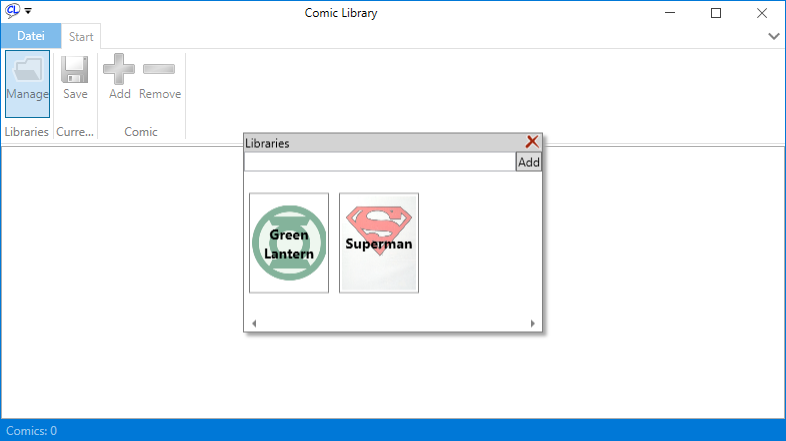
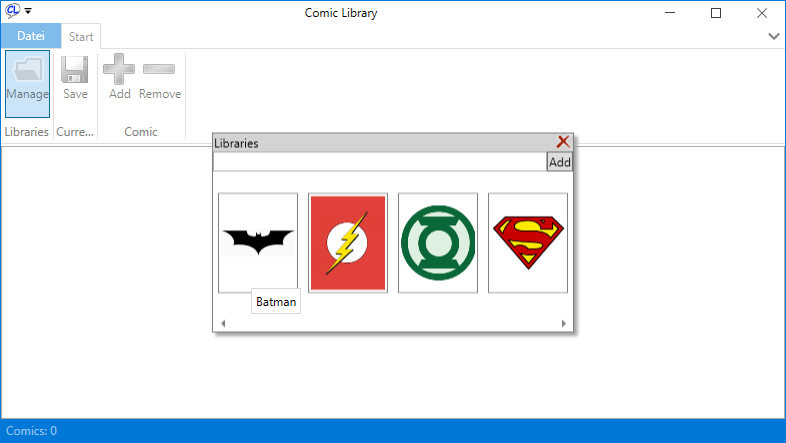
Added comic counter in overview.

diff --git a/ComicLibrary/View/MainWindow.xaml b/ComicLibrary/View/MainWindow.xaml
@@ -8,6 +8,7 @@
                      xmlns:fluent="urn:fluent-ribbon"
                      xmlns:local="clr-namespace:ComicLibrary"
                      xmlns:localBehaviors="clr-namespace:ComicLibrary.View.Behaviors"
+                     xmlns:localConverters="clr-namespace:ComicLibrary.View.Converters"
                      xmlns:mc="http://schemas.openxmlformats.org/markup-compatibility/2006"
                      xmlns:vm="clr-namespace:ComicLibrary.ViewModel"
                      Title="Comic Library"
@@ -19,6 +20,7 @@
     <ResourceDictionary>
       <converters:BooleanToVisibilityConverter x:Key="VisibilityConverter" />
       <converters:NegationConverter x:Key="NegationConverter" />
+      <localConverters:ConditionConverter x:Key="ConditionConverter" />
 
       <DataTemplate DataType="{x:Type vm:LibraryViewModel}">
         <Border x:Name="Border"
@@ -28,7 +30,8 @@
                 Background="White"
                 BorderBrush="Gray"
                 BorderThickness="1"
-                Cursor="Hand">
+                Cursor="Hand"
+                ToolTip="{Binding Name}">
           <Border.Resources>
             <controls:BindingProxy x:Key="Proxy" Data="{Binding DataContext, RelativeSource={RelativeSource AncestorType={x:Type local:MainWindow}}}" />
           </Border.Resources>
@@ -57,9 +60,8 @@
           </behaviors:Interaction.Triggers>
           <Grid>
             <Image Margin="2"
-                   Opacity="0.5"
                    Source="{Binding ComicImage.Image}"
-                   Stretch="UniformToFill" />
+                   Stretch="Uniform" />
             <TextBlock Margin="2"
                        HorizontalAlignment="Center"
                        VerticalAlignment="Center"
@@ -68,7 +70,19 @@
                        Text="{Binding Name}"
                        TextAlignment="Center"
                        TextTrimming="CharacterEllipsis"
-                       TextWrapping="Wrap" />
+                       TextWrapping="Wrap">
+              <TextBlock.Style>
+                <Style TargetType="TextBlock">
+                  <Setter Property="Visibility" Value="Collapsed" />
+                  <Style.Triggers>
+                    <DataTrigger Binding="{Binding ComicImage}" Value="{x:Null}">
+                      <Setter Property="Visibility" Value="Visible" />
+                    </DataTrigger>
+                  </Style.Triggers>
+                </Style>
+              </TextBlock.Style>
+            </TextBlock>
+            <TextBlock Text="{Binding ComicCount}" VerticalAlignment="Bottom" HorizontalAlignment="Right" Margin="2,0" FontWeight="Bold"/>
           </Grid>
         </Border>
       </DataTemplate>
@@ -153,9 +167,24 @@
                   </Style>
                 </DataGridTextColumn.ElementStyle>
               </DataGridTextColumn>
-              <DataGridComboBoxColumn Header="Condition"
-                                      ItemsSource="{Binding Data.Conditions, Source={StaticResource Proxy}}"
-                                      SelectedItemBinding="{Binding Condition}" />
+              <DataGridTemplateColumn>
+                <DataGridTemplateColumn.CellTemplate>
+                  <DataTemplate>
+                    <TextBlock Margin="2,0" Text="{Binding Condition, Converter={StaticResource ConditionConverter}}" />
+                  </DataTemplate>
+                </DataGridTemplateColumn.CellTemplate>
+                <DataGridTemplateColumn.CellEditingTemplate>
+                  <DataTemplate>
+                    <ComboBox ItemsSource="{Binding Data.Conditions, Source={StaticResource Proxy}}" SelectedItem="{Binding Condition}">
+                      <ComboBox.ItemTemplate>
+                        <DataTemplate>
+                          <TextBlock Margin="2,0" Text="{Binding Converter={StaticResource ConditionConverter}}" />
+                        </DataTemplate>
+                      </ComboBox.ItemTemplate>
+                    </ComboBox>
+                  </DataTemplate>
+                </DataGridTemplateColumn.CellEditingTemplate>
+              </DataGridTemplateColumn>
               <DataGridComboBoxColumn DisplayMemberPath="Name"
                                       Header="Publisher"
                                       ItemsSource="{Binding Data.Publishers, Source={StaticResource Proxy}}"

diff --git a/ComicLibrary/View/EditComicDialog.xaml b/ComicLibrary/View/EditComicDialog.xaml
@@ -5,13 +5,15 @@
         xmlns:d="http://schemas.microsoft.com/expression/blend/2008"
         xmlns:local="clr-namespace:ComicLibrary.View"
         xmlns:mc="http://schemas.openxmlformats.org/markup-compatibility/2006"
-        xmlns:viewmodel="clr-namespace:ComicLibrary.ViewModel"
+        xmlns:viewmodel="clr-namespace:ComicLibrary.ViewModel" xmlns:localConverters="clr-namespace:ComicLibrary.View.Converters"
         Title="Comic"
         Width="600"
         Height="450"
         d:DataContext="{d:DesignInstance Type=viewmodel:EditComicViewModel}"
         mc:Ignorable="d">
   <Window.Resources>
+    <localConverters:ConditionConverter x:Key="ConditionConverter" />
+
     <Style TargetType="{x:Type TextBlock}">
       <Setter Property="VerticalAlignment" Value="Center" />
       <Setter Property="Margin" Value="2" />
@@ -89,7 +91,13 @@
     <ComboBox Grid.Row="5"
               Grid.Column="1"
               ItemsSource="{Binding Conditions}"
-              SelectedItem="{Binding Condition}" />
+              SelectedItem="{Binding Condition}">
+      <ComboBox.ItemTemplate>
+        <DataTemplate>
+          <TextBlock Margin="2,0" Text="{Binding Converter={StaticResource ConditionConverter}}" />
+        </DataTemplate>
+      </ComboBox.ItemTemplate>
+    </ComboBox>
 
     <TextBlock Grid.Row="6" Text="Publisher" />
     <ComboBox Grid.Row="6"

diff --git a/ComicLibrary/ViewModel/ActiveLibraryViewModel.cs b/ComicLibrary/ViewModel/ActiveLibraryViewModel.cs
@@ -12,6 +12,7 @@ namespace ComicLibrary.ViewModel
   {
     #region Fields
 
+    private readonly LibraryViewModel _libraryTemplate;
     private ComicViewModel _selectedComic;
     private string _searchText;
     private ActionCommand _addComicCommand;
@@ -25,6 +26,7 @@ namespace ComicLibrary.ViewModel
 
     public ActiveLibraryViewModel(ActiveLibrary library, LibraryViewModel libraryTemplate)
     {
+      _libraryTemplate = libraryTemplate;
       Publishers =
       [
         new EmptyOptionItemViewModel<Publisher>(),
@@ -37,15 +39,14 @@ namespace ComicLibrary.ViewModel
       ];
       Conditions = Enum.GetValues(typeof(Condition)).Cast<Condition>().ToList();
       Comics = new ObservableCollection<ComicViewModel>(library.Comics.Select(x => new ComicViewModel(x, Name, Publishers, Countries)));
-      Path = libraryTemplate.GetFilePath();
-      Name = libraryTemplate.Name;
+      libraryTemplate.ComicCount = Comics.Count;
     }
 
     #endregion
 
     #region Properties
 
-    public string Name { get; }
+    public string Name => _libraryTemplate.Name;
 
     public List<IOptionItemViewModel<Publisher>> Publishers { get; }
 
@@ -69,7 +70,7 @@ namespace ComicLibrary.ViewModel
       }
     }
 
-    public string Path { get; }
+    public string Path => _libraryTemplate.GetFilePath();
 
     public string SearchText
     {
@@ -101,6 +102,7 @@ namespace ComicLibrary.ViewModel
       var comicVM = new ComicViewModel(comic, Name, Publishers, Countries);
       Comics.Add(comicVM);
       SelectedComic = comicVM;
+      _libraryTemplate.ComicCount = Comics.Count;
     }
 
     #endregion
@@ -113,6 +115,7 @@ namespace ComicLibrary.ViewModel
     {
       Comics.Remove(SelectedComic);
       SelectedComic = null;
+      _libraryTemplate.ComicCount = Comics.Count;
     }
 
     private bool CanRemoveComic()

diff --git a/ComicLibrary/Model/Entities/Library.cs b/ComicLibrary/Model/Entities/Library.cs
@@ -3,9 +3,11 @@ using ComicLibrary.Model.Config;
 
 namespace ComicLibrary.Model.Entities
 {
-  public class Library : IComparable, IComparable<Library>
+  public class Library
   {
     public string Name { get; set; }
+
+    public int ComicCount { get; set; }
 
     public string FileName { get; set; }
 
@@ -13,26 +15,30 @@ namespace ComicLibrary.Model.Entities
 
     internal static string GenerateFileName(string libraryName)
     {
-      string filePath = Path.Combine(Settings.Instance.LibrariesPath, Path.ChangeExtension(libraryName, "xml"));
+      string fileName = GetValidFileName(libraryName);
+
+      string filePath = Path.Combine(Settings.Instance.LibrariesPath, Path.ChangeExtension(fileName, "xml"));
       int i = 0;
 
       while (File.Exists(filePath))
       {
-        filePath = Path.Combine(Settings.Instance.LibrariesPath, Path.ChangeExtension(libraryName + "_" + i, "xml"));
+        filePath = Path.Combine(Settings.Instance.LibrariesPath, Path.ChangeExtension(fileName + "_" + i, "xml"));
         i++;
       }
 
       return Path.GetFileName(filePath);
     }
 
-    public int CompareTo(object obj)
+    private static string GetValidFileName(string libraryName)
     {
-      return obj is not Library other ? -1 : CompareTo(other);
-    }
+      string fileName = libraryName;
 
-    public int CompareTo(Library other)
-    {
-      return string.Compare(Name, other.Name);
+      foreach (char c in Path.GetInvalidFileNameChars())
+      {
+        fileName = fileName.Replace(c, '_');
+      }
+
+      return fileName;
     }
   }
 }

diff --git a/ComicLibrary/Model/FileHelper.cs b/ComicLibrary/Model/FileHelper.cs
@@ -35,6 +35,7 @@ namespace ComicLibrary.Model
     private const string CollectorsEditionKey = "CollectorsEdition";
     private const string CommentKey = "Comment";
     private const string SaveDateKey = "SaveDate";
+    private const string ComicCountKey = "ComicCount";
 
     #endregion
 
@@ -150,6 +151,10 @@ namespace ComicLibrary.Model
               else if (categoryAttribute.Name == ImageKey)
               {
                 library.ImageAsString = categoryAttribute.InnerText;
+              }
+              else if (categoryAttribute.Name == ComicCountKey && int.TryParse(categoryAttribute.InnerText, out int comicCount))
+              {
+                library.ComicCount = comicCount;
               }
             }
 
@@ -347,6 +352,7 @@ namespace ComicLibrary.Model
                                   LibraryKey,
                                   (NameKey, library.Name),
                                   (FileNameKey, library.FileName),
+                                  (ComicCountKey, library.ComicCount.ToString()),
                                   (ImageKey, library.ImageAsString));
       }
 

diff --git a/ComicLibrary/ViewModel/LibraryViewModel.cs b/ComicLibrary/ViewModel/LibraryViewModel.cs
@@ -18,6 +18,12 @@ namespace ComicLibrary.ViewModel
 
     public string Name => _library.Name;
 
+    public int ComicCount
+    {
+      get => _library.ComicCount;
+      set => _library.ComicCount = value;
+    }
+
     public ComicImageViewModel ComicImage
     {
       get => _comicImage;

diff --git a/ComicLibrary/View/Converters/ConditionConverter.cs b/ComicLibrary/View/Converters/ConditionConverter.cs
@@ -12,6 +12,7 @@ namespace ComicLibrary.View.Converters
       {
         return condition switch
         {
+          Condition.None => "(None)",
           Condition.Excellent => "1 - Excellent",
           Condition.VeryGood => "2 - Very Good",
           Condition.Good => "3 - Good",

diff --git a/ComicLibrary/View/EditComicDialog.xaml.cs b/ComicLibrary/View/EditComicDialog.xaml.cs
@@ -1,6 +1,6 @@
 using System.Windows;
 using System.Windows.Threading;
-using ComicLibrary.Helpers;
+using ComicLibrary.View.Helpers;
 using ComicLibrary.ViewModel;
 using ES.Tools.Core.MVVM;
 

diff --git a/ComicLibrary/View/EditOptionDialog.xaml.cs b/ComicLibrary/View/EditOptionDialog.xaml.cs
@@ -1,6 +1,6 @@
 using System.Windows;
 using System.Windows.Threading;
-using ComicLibrary.Helpers;
+using ComicLibrary.View.Helpers;
 using ES.Tools.Core.MVVM;
 
 namespace ComicLibrary.View

diff --git a/ComicLibrary/View/Helpers/VisualTreeHelpers.cs b/ComicLibrary/View/Helpers/VisualTreeHelpers.cs
@@ -1,7 +1,7 @@
 using System.Windows;
 using System.Windows.Media;
 
-namespace ComicLibrary.Helpers
+namespace ComicLibrary.View.Helpers
 {
   public static class VisualTreeHelpers
   {

diff --git a/ComicLibrary/ViewModel/MainViewModel.cs b/ComicLibrary/ViewModel/MainViewModel.cs
@@ -397,6 +397,9 @@ namespace ComicLibrary.ViewModel
         }
       }
 
+      // Save the updated comic counter
+      SaveLibraries();
+
       return true;
     }
 
